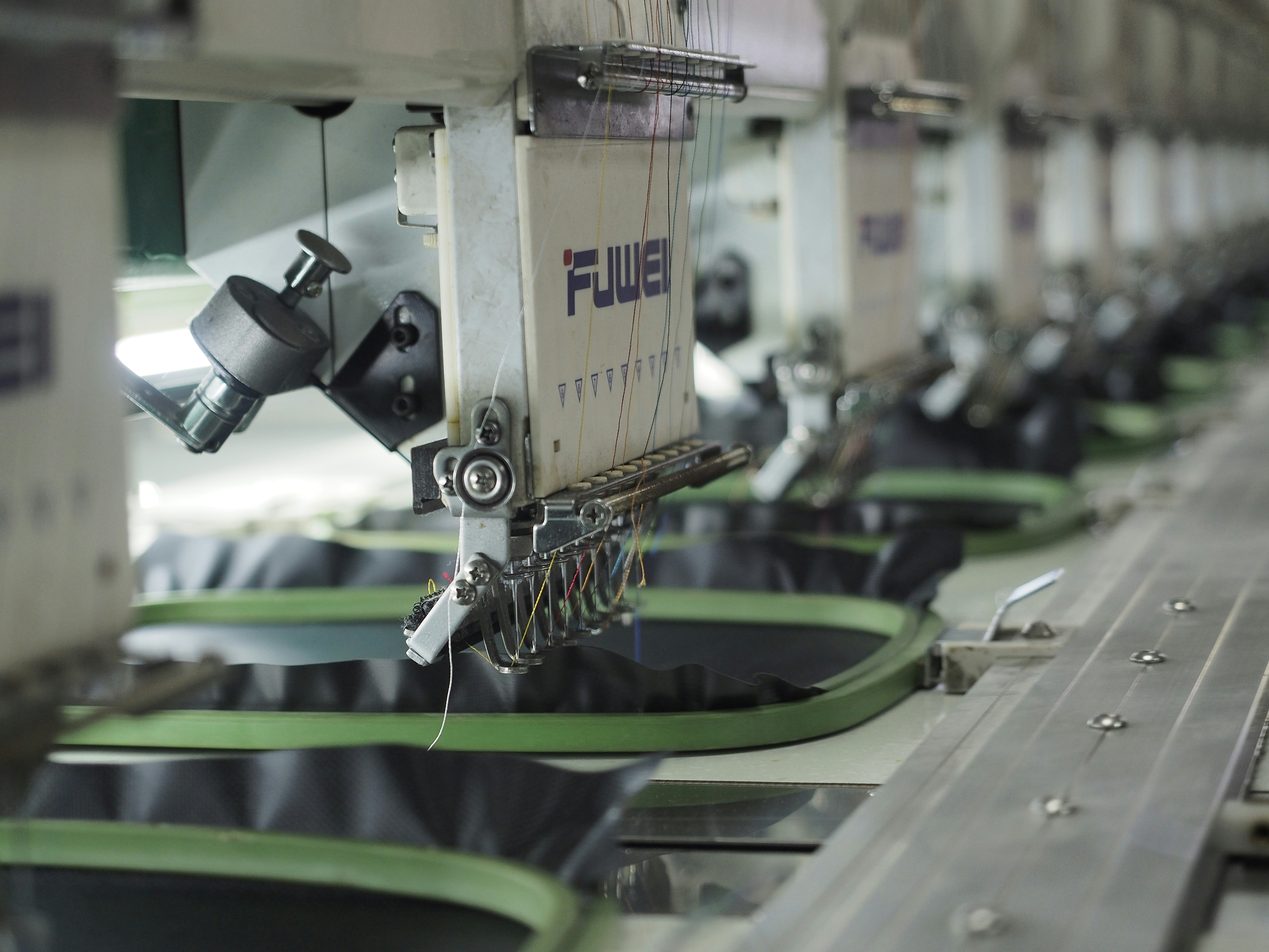
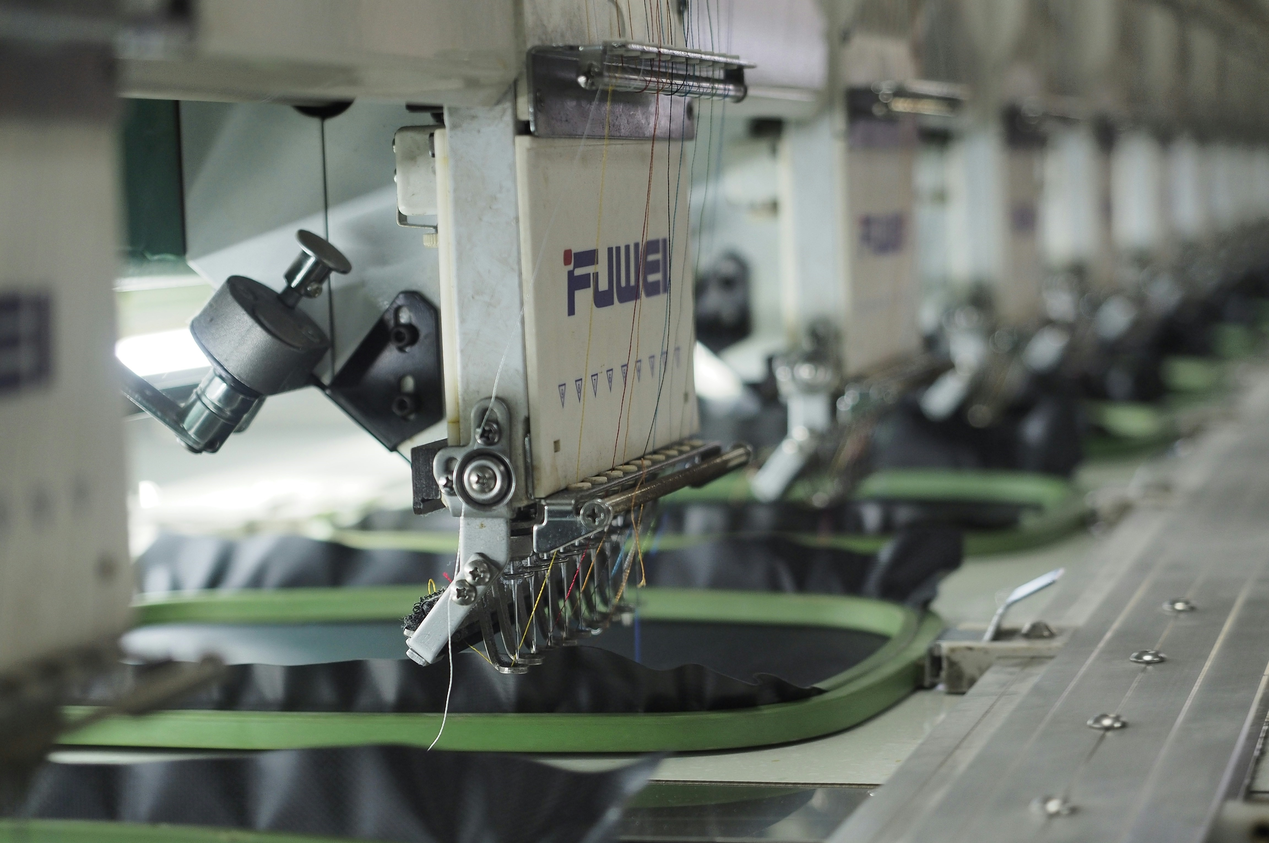
make carousel content responsive

diff --git a/components/shared/HeroCarousel.tsx b/components/shared/HeroCarousel.tsx
@@ -29,13 +29,13 @@ const HeroCarousel: React.FC = ({}) => {
     >
       <div className='absolute z-10 bg-black bg-opacity-60 w-full h-full flex items-center'>
         <div className='wrapper'>
-          <h1 className='text-slate-200 text-[80px] 2xl:text-[100px] font-bold'>
+          <h1 className='text-slate-200 text-[40px] md:text-[60px] lg:text-[80px] 2xl:text-[100px] font-bold'>
             Barzu
           </h1>
-          <p className='text-slate-200 text-[34px] font-medium tracking-wide'>
+          <p className='text-slate-200 text-[20px] md:text-[26px] lg:text-[34px] font-medium tracking-wide'>
             Discover our superior knitwear for unmatched quality and style!
           </p>
-          <p className='text-slate-200 text-[20px] font-medium pt-2 tracking-wide'>
+          <p className='text-slate-200 text-[14px] md:text-[20px] font-medium pt-2 tracking-wide'>
             From production to doorstep, we've got you covered with seamless
             service, packaging, and delivery solutions!
           </p>
@@ -44,13 +44,16 @@ const HeroCarousel: React.FC = ({}) => {
       <CarouselContent>
         {heroCarouselImages.map(({ src, alt }, index) => (
           <CarouselItem key={index} className='p-0'>
-            <div>
-              <Card className='border-none p-0'>
-                <CardContent className='flex items-center h-[610px] 2xl:h-[900px] p-0'>
-                  <Image className='w-full' src={src} alt={alt} />
-                </CardContent>
-              </Card>
-            </div>
+            <Card className='border-none p-0'>
+              <CardContent className='relative flex items-center min-h-[600px] md:max-h-[900px] p-0'>
+                <Image
+                  className='min-h-[600px] object-cover object-center'
+                  src={src}
+                  alt={alt}
+                  priority
+                />
+              </CardContent>
+            </Card>
           </CarouselItem>
         ))}
       </CarouselContent>
